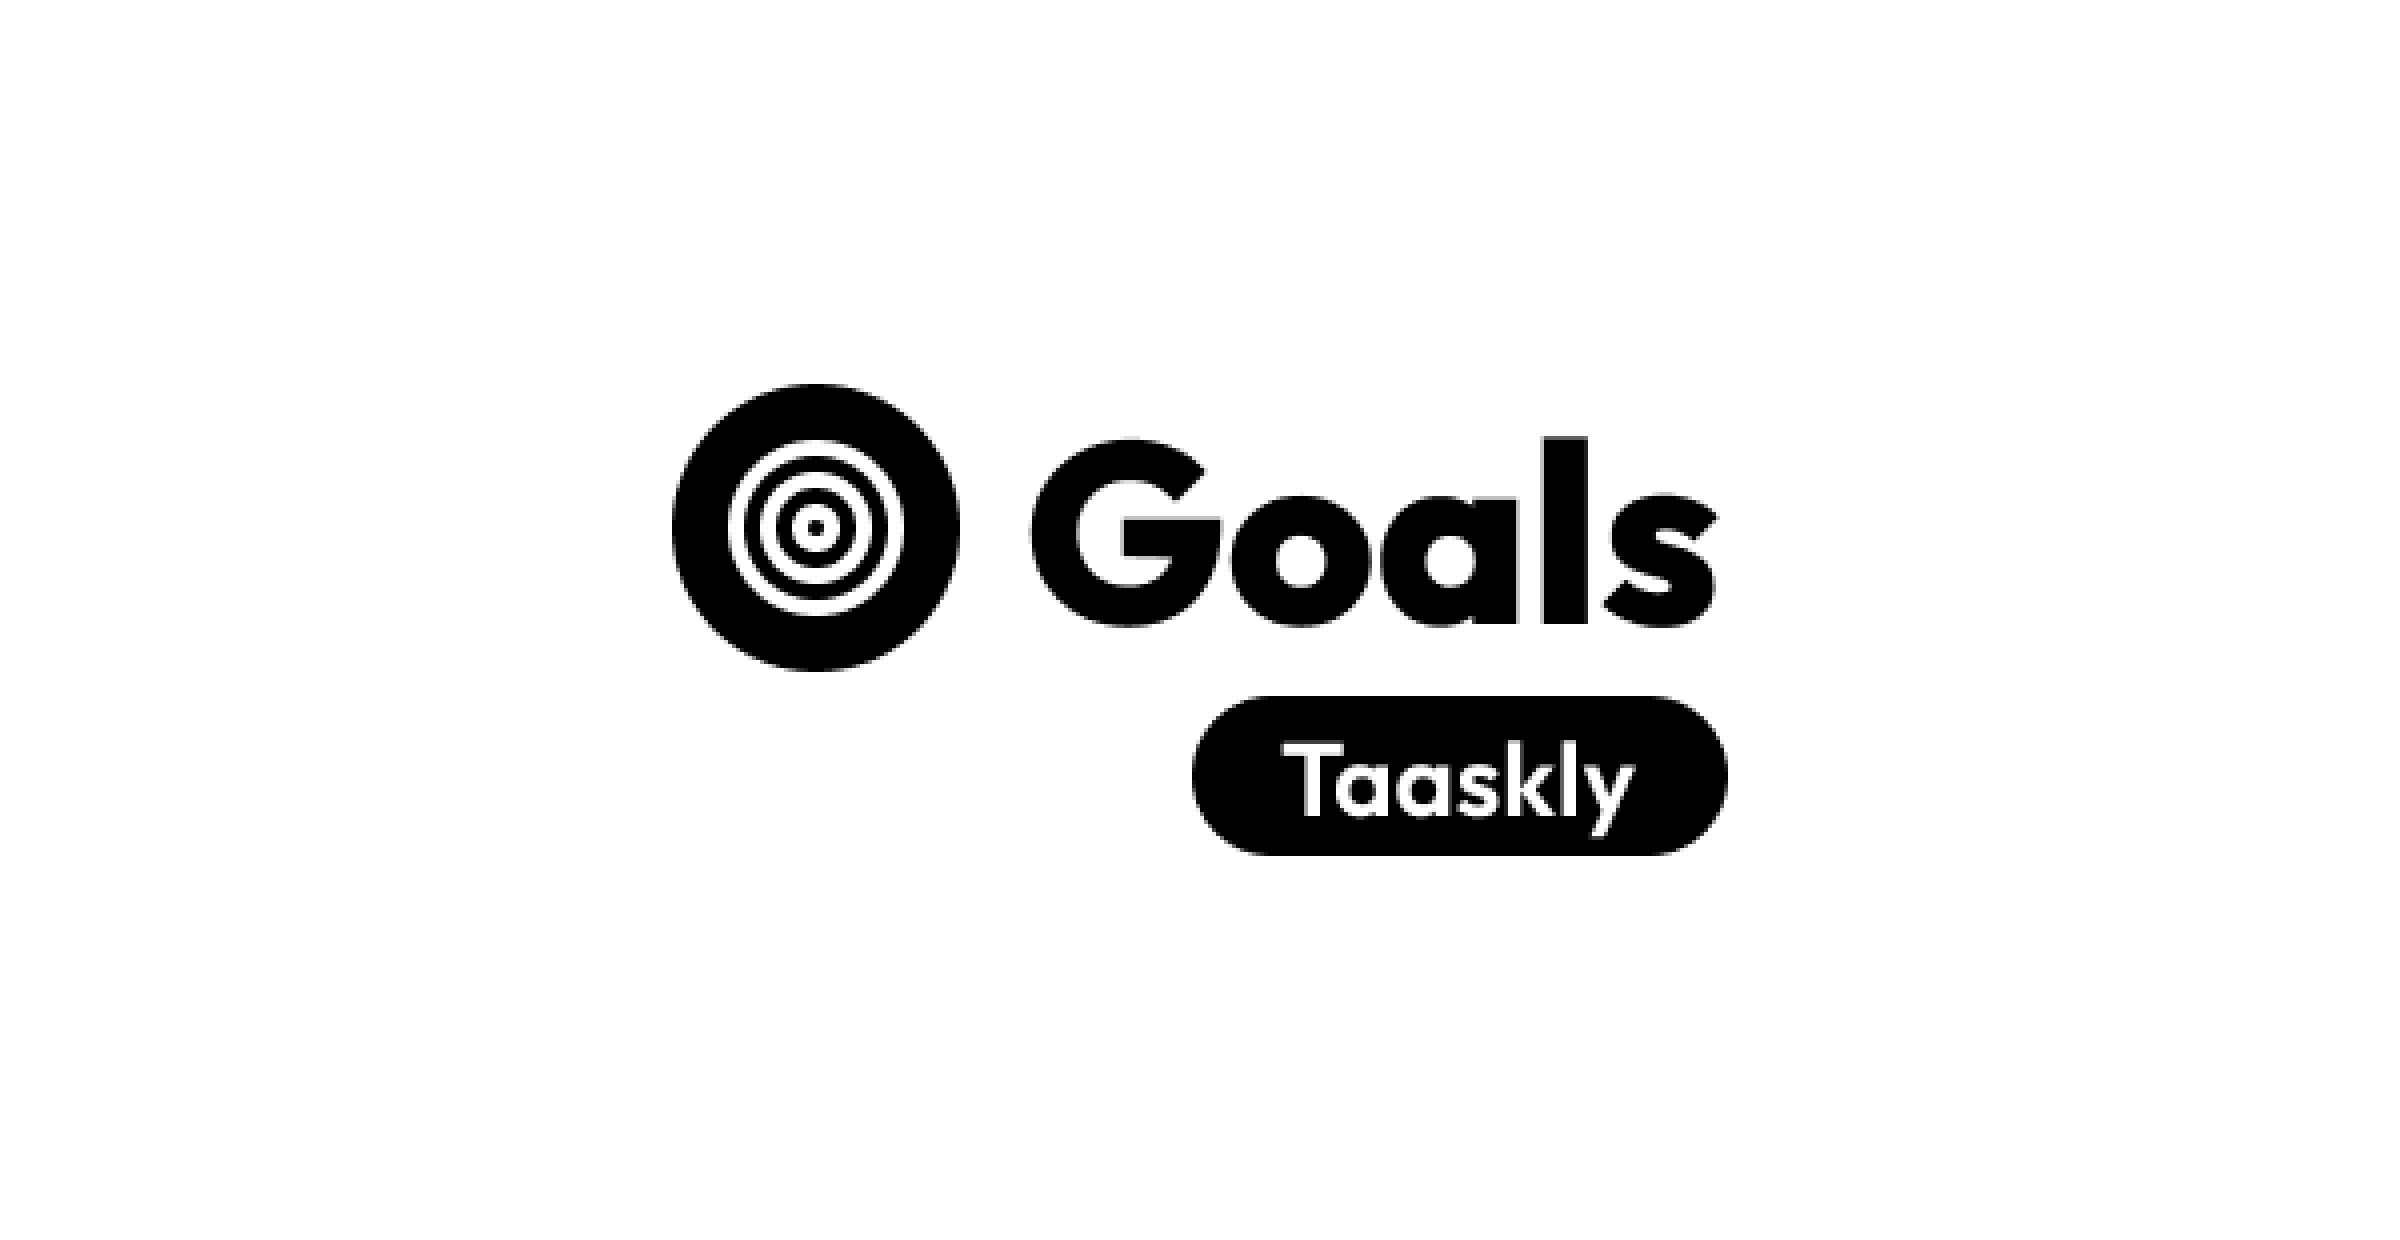
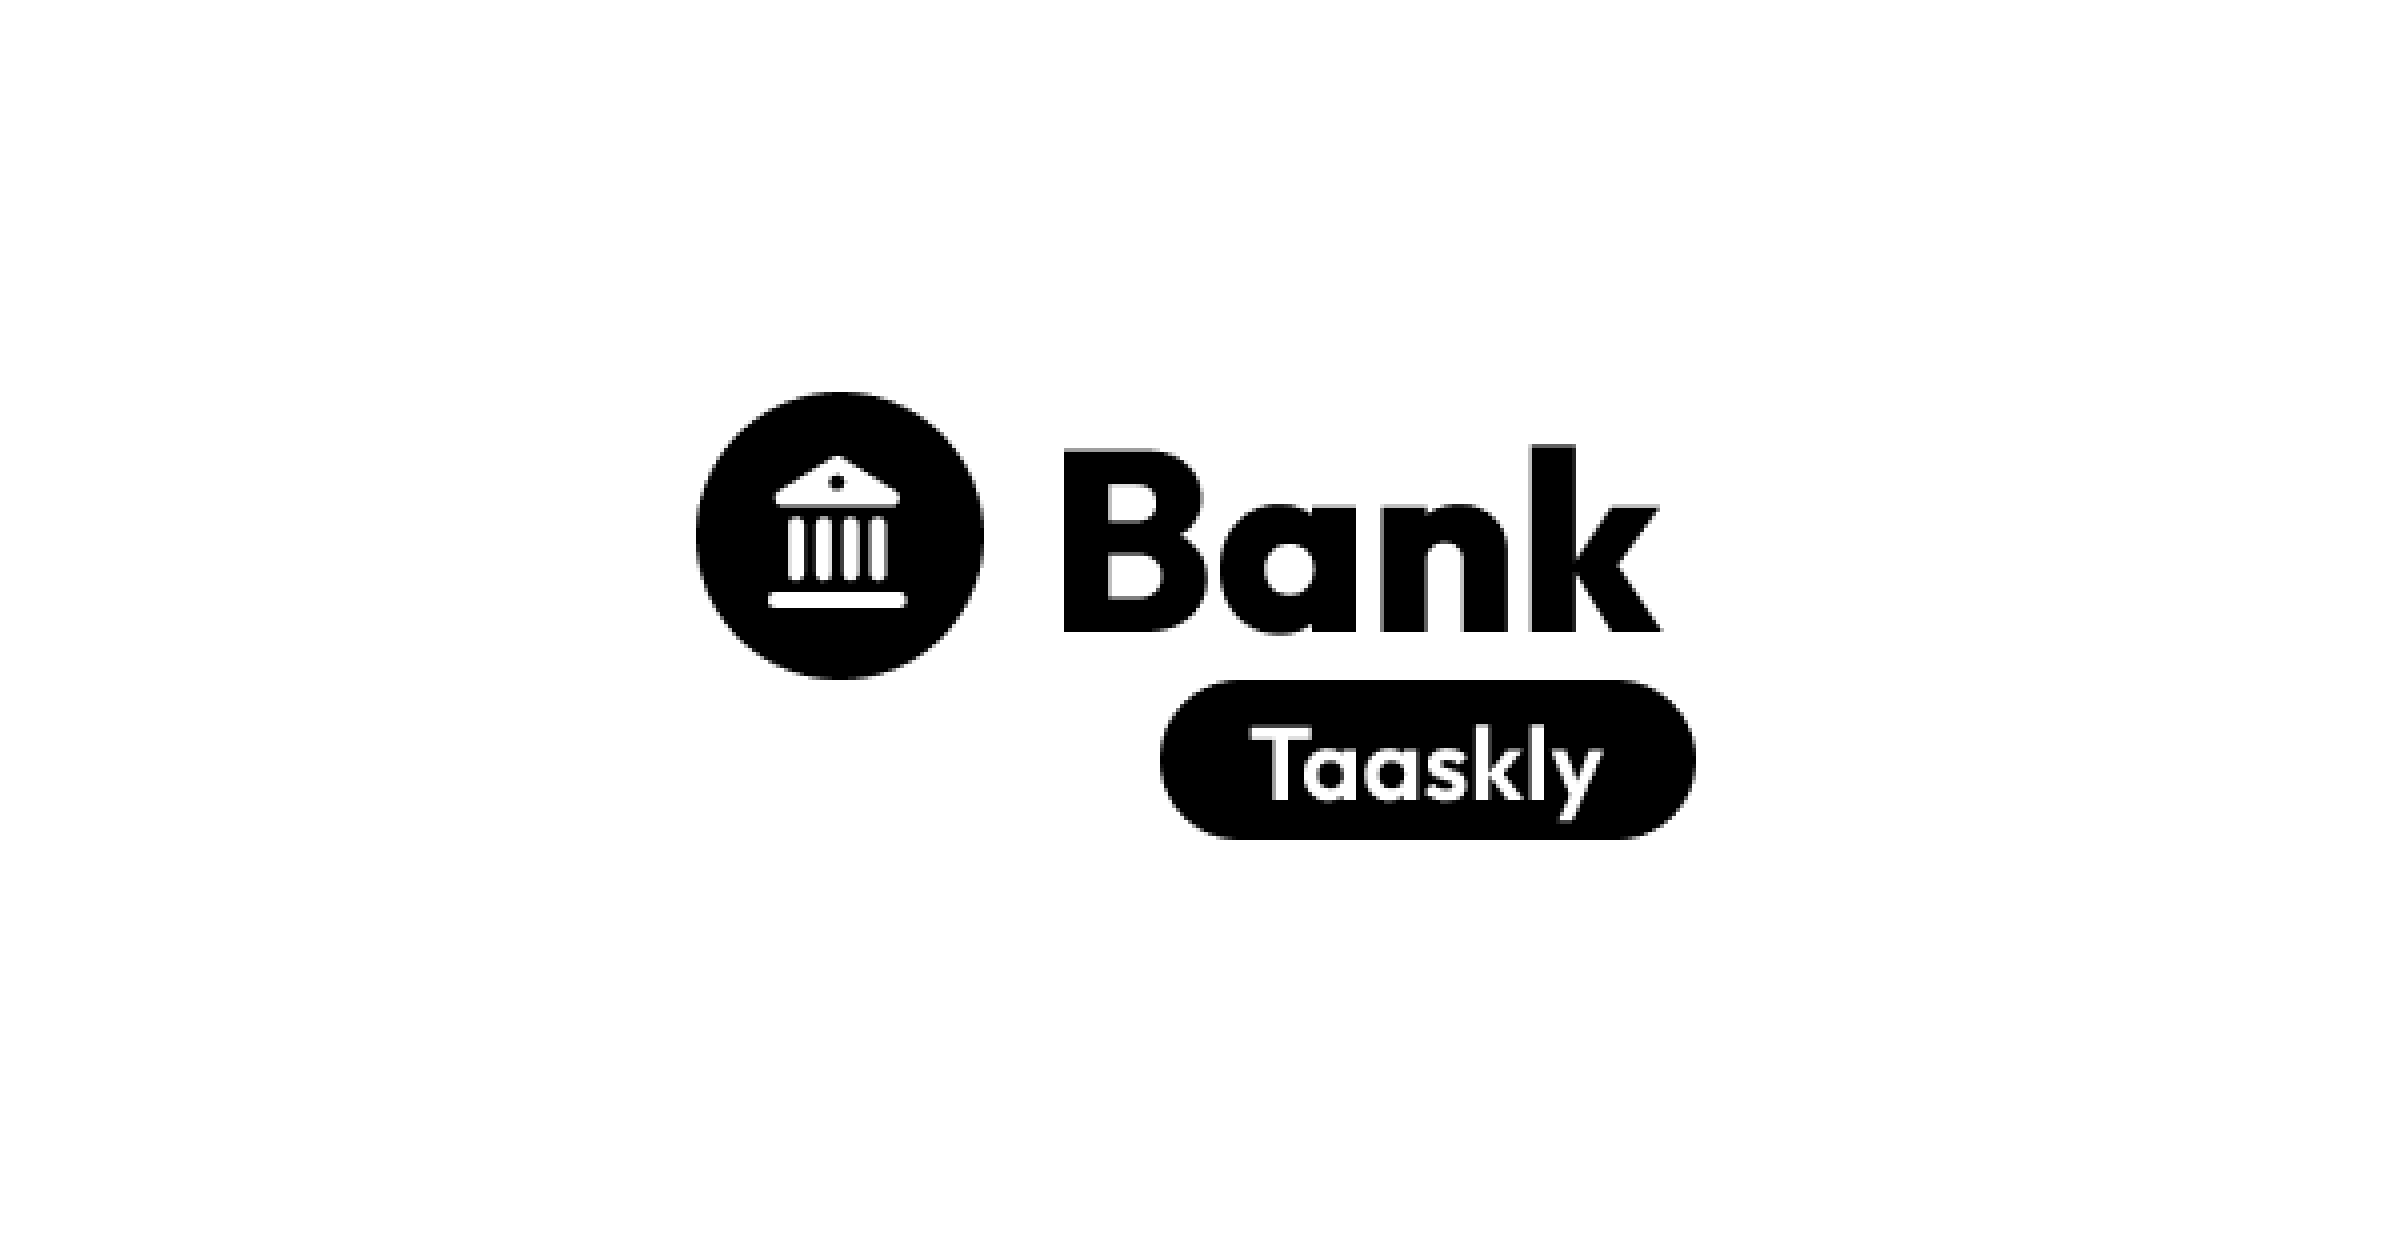
init

Changed region(s): [[0.2812, 0.3065, 0.7188, 0.7048]]

diff --git a/app_config.ts b/app_config.ts
@@ -6,7 +6,7 @@
 export default {
     keepalive: true,
     head: {
-        title: 'Goals - Achieve your goals faster with actionable todo',
+        title: 'Bank - Get Financial Insights from your Bank statements',
         htmlAttrs: { lang: 'en' },
         viewport: 'width=device-width,initial-scale=1,viewport-fit=cover',
         bodyAttrs: { class: 'overflow-x-hidden' },
@@ -19,38 +19,38 @@ export default {
             },
             {
                 name: 'title',
-                content: 'Goals - Achieve your goals faster with actionable todo'
+                content: 'Bank - Get Financial Insights from your Bank statements'
             },
             {
                 name: 'description',
-                content: 'Generates a list of actionable steps and to-do to achieve your goals'
+                content: 'Get Financial Insights from your Bank statements'
             },
             {
                 name: 'twitter:title',
-                content: 'Goals - Achieve your goals faster with actionable todo'
+                content: 'Bank - Get Financial Insights from your Bank statements'
             },
-            { name: 'twitter:image', content: 'https://Goals.taaskly.site/og2.png' },
+            { name: 'twitter:image', content: 'https://bank.taaskly.site/og2.png' },
             {
                 name: 'twitter:description',
-                content: 'Generates a list of actionable steps and to-do to achieve your goals.'
+                content: 'Get Financial Insights from your Bank statements.'
             },
             { name: 'twitter:card', content: 'summary_large_image' },
             { name: 'twitter:site', content: '@kromate_24' },
             { name: 'twitter:creator', content: '@kromate_24' },
             {
                 property: 'og:title',
-                content: 'Goals | Achieve your goals faster with actionable todo'
+                content: 'Bank | Get Financial Insights from your Bank statements'
             },
             { name: 'google-site-verification', content: 'tWttF6w3RHPlNPm5u7KSRgh4lgkRUZ2Bwl6QzECjY18' },
             { property: 'og:type', content: 'website' },
-            { property: 'og:url', content: 'https://goals.taaskly.site/' },
-            { property: 'og:image', content: 'https://goals.taaskly.site/og2.png' },
-            { property: 'og:image:secure_url', content: 'https://goals.taaskly.site/og2.png' },
+            { property: 'og:url', content: 'https://bank.taaskly.site/' },
+            { property: 'og:image', content: 'https://bank.taaskly.site/og2.png' },
+            { property: 'og:image:secure_url', content: 'https://bank.taaskly.site/og2.png' },
             { property: 'og:image:type', content: 'image/png' },
-            { property: 'og:site_name', content: 'Goals' },
+            { property: 'og:site_name', content: 'Bank' },
             {
                 property: 'og:description',
-                content: 'Generates a list of actionable steps and to-do to achieve your goals.'
+                content: 'Get Financial Insights from your Bank statements'
             },
 
             { name: 'format-detection', content: 'telephone=no' }
